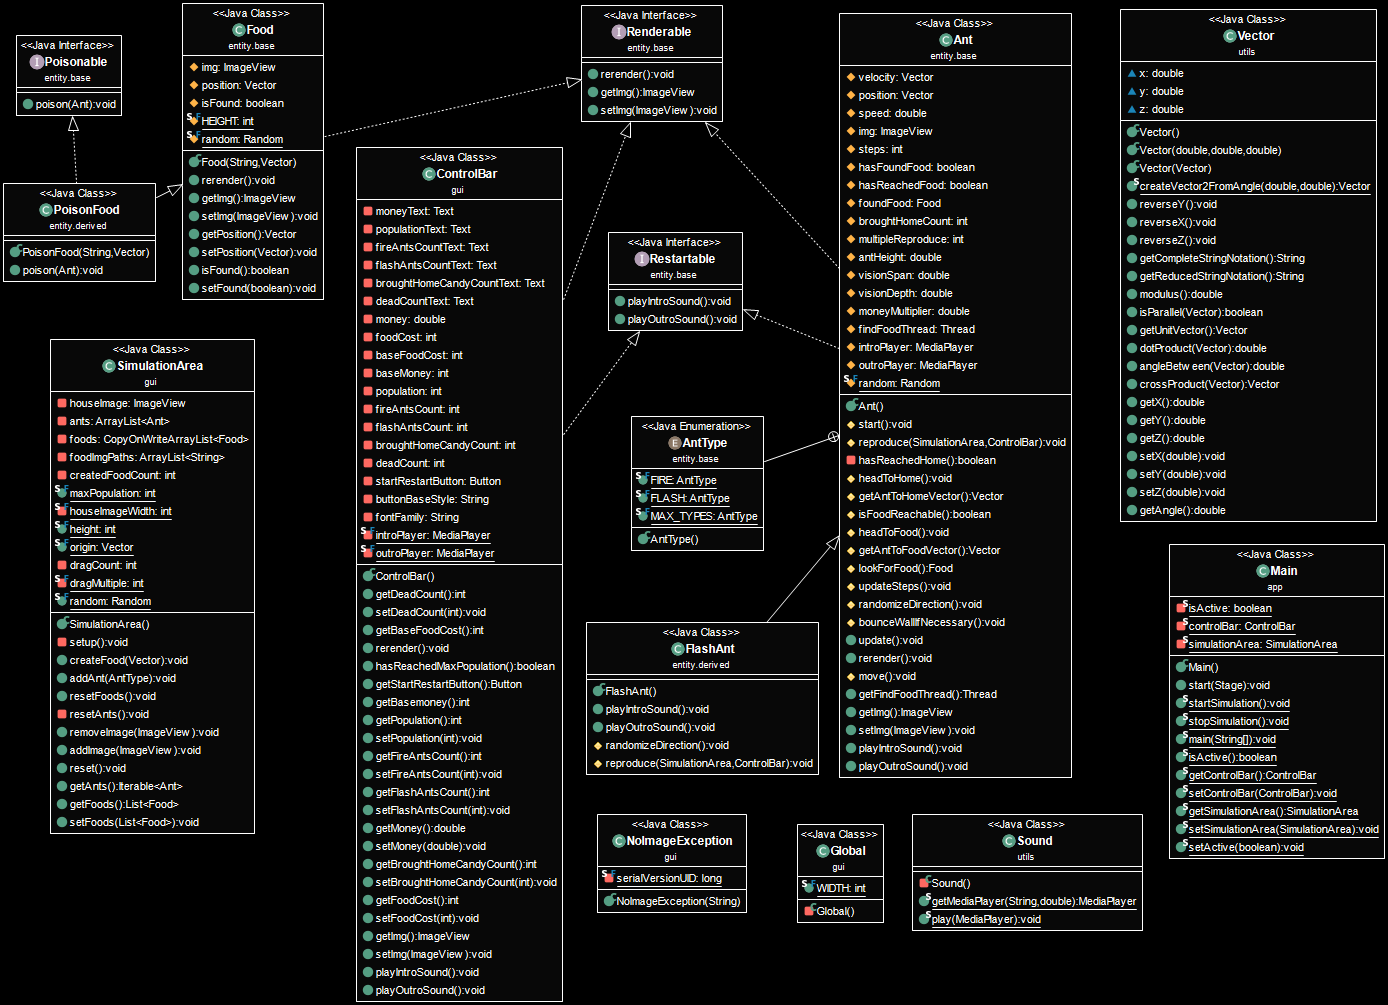
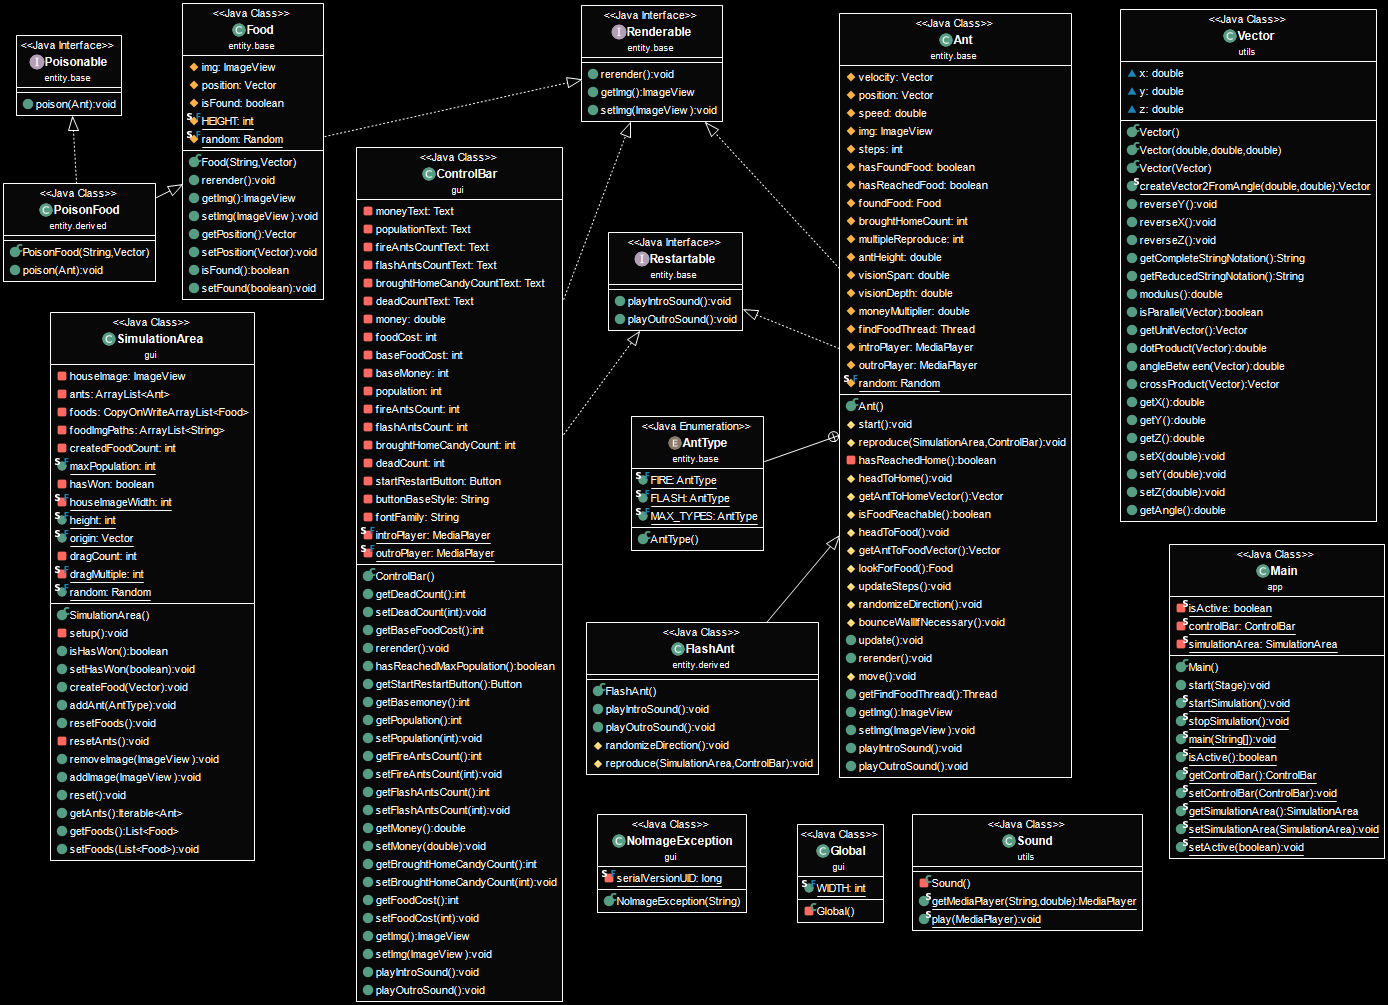
fixed playing game end sound multiple times

Changed region(s): [[0.031, 0.3085, 0.1859, 0.8637]]

diff --git a/src/gui/SimulationArea.java b/src/gui/SimulationArea.java
@@ -34,6 +34,7 @@ public class SimulationArea extends Pane {
 	private int createdFoodCount = 0;
 	
 	public static final int maxPopulation = 100;
+	private boolean hasWon = false;
 
 	private static final int houseImageWidth = 50;
 	public static final int height = 800;
@@ -82,6 +83,14 @@ public class SimulationArea extends Pane {
 		});
 	}
 
+	public boolean isHasWon() {
+		return hasWon;
+	}
+
+	public void setHasWon(boolean hasWon) {
+		this.hasWon = hasWon;
+	}
+
 	public void createFood(Vector position) {
 		// create new Food object and add to container to keep track
 		// also show it in the area
@@ -118,7 +127,8 @@ public class SimulationArea extends Pane {
 		}
 
 		final int updatedPopulation = controlBar.getPopulation() + 1;
-		if (updatedPopulation >= maxPopulation) { // no longer add ants after this threshold
+		if (updatedPopulation >= maxPopulation && !this.hasWon) { // no longer add ants after this threshold
+			this.hasWon = true;
 			controlBar.playOutroSound();
 		}
 		controlBar.setPopulation(updatedPopulation);
@@ -148,6 +158,7 @@ public class SimulationArea extends Pane {
 	public void reset() {
 		resetFoods();
 		resetAnts();
+		this.hasWon = false;
 		this.getChildren().clear();
 		setup();
 	}

diff --git a/src/app/Main.java b/src/app/Main.java
@@ -31,7 +31,7 @@ public class Main extends Application {
 	public static void startSimulation() {
 		isActive = true;
 		controlBar.getStartRestartButton().setText("Stop");
-		final int startingAntCount = 10;
+		final int startingAntCount = 99;
 		for (int count = 0; count < startingAntCount; ++count)
 			simulationArea.addAnt(AntType.FIRE);
 		controlBar.rerender();
